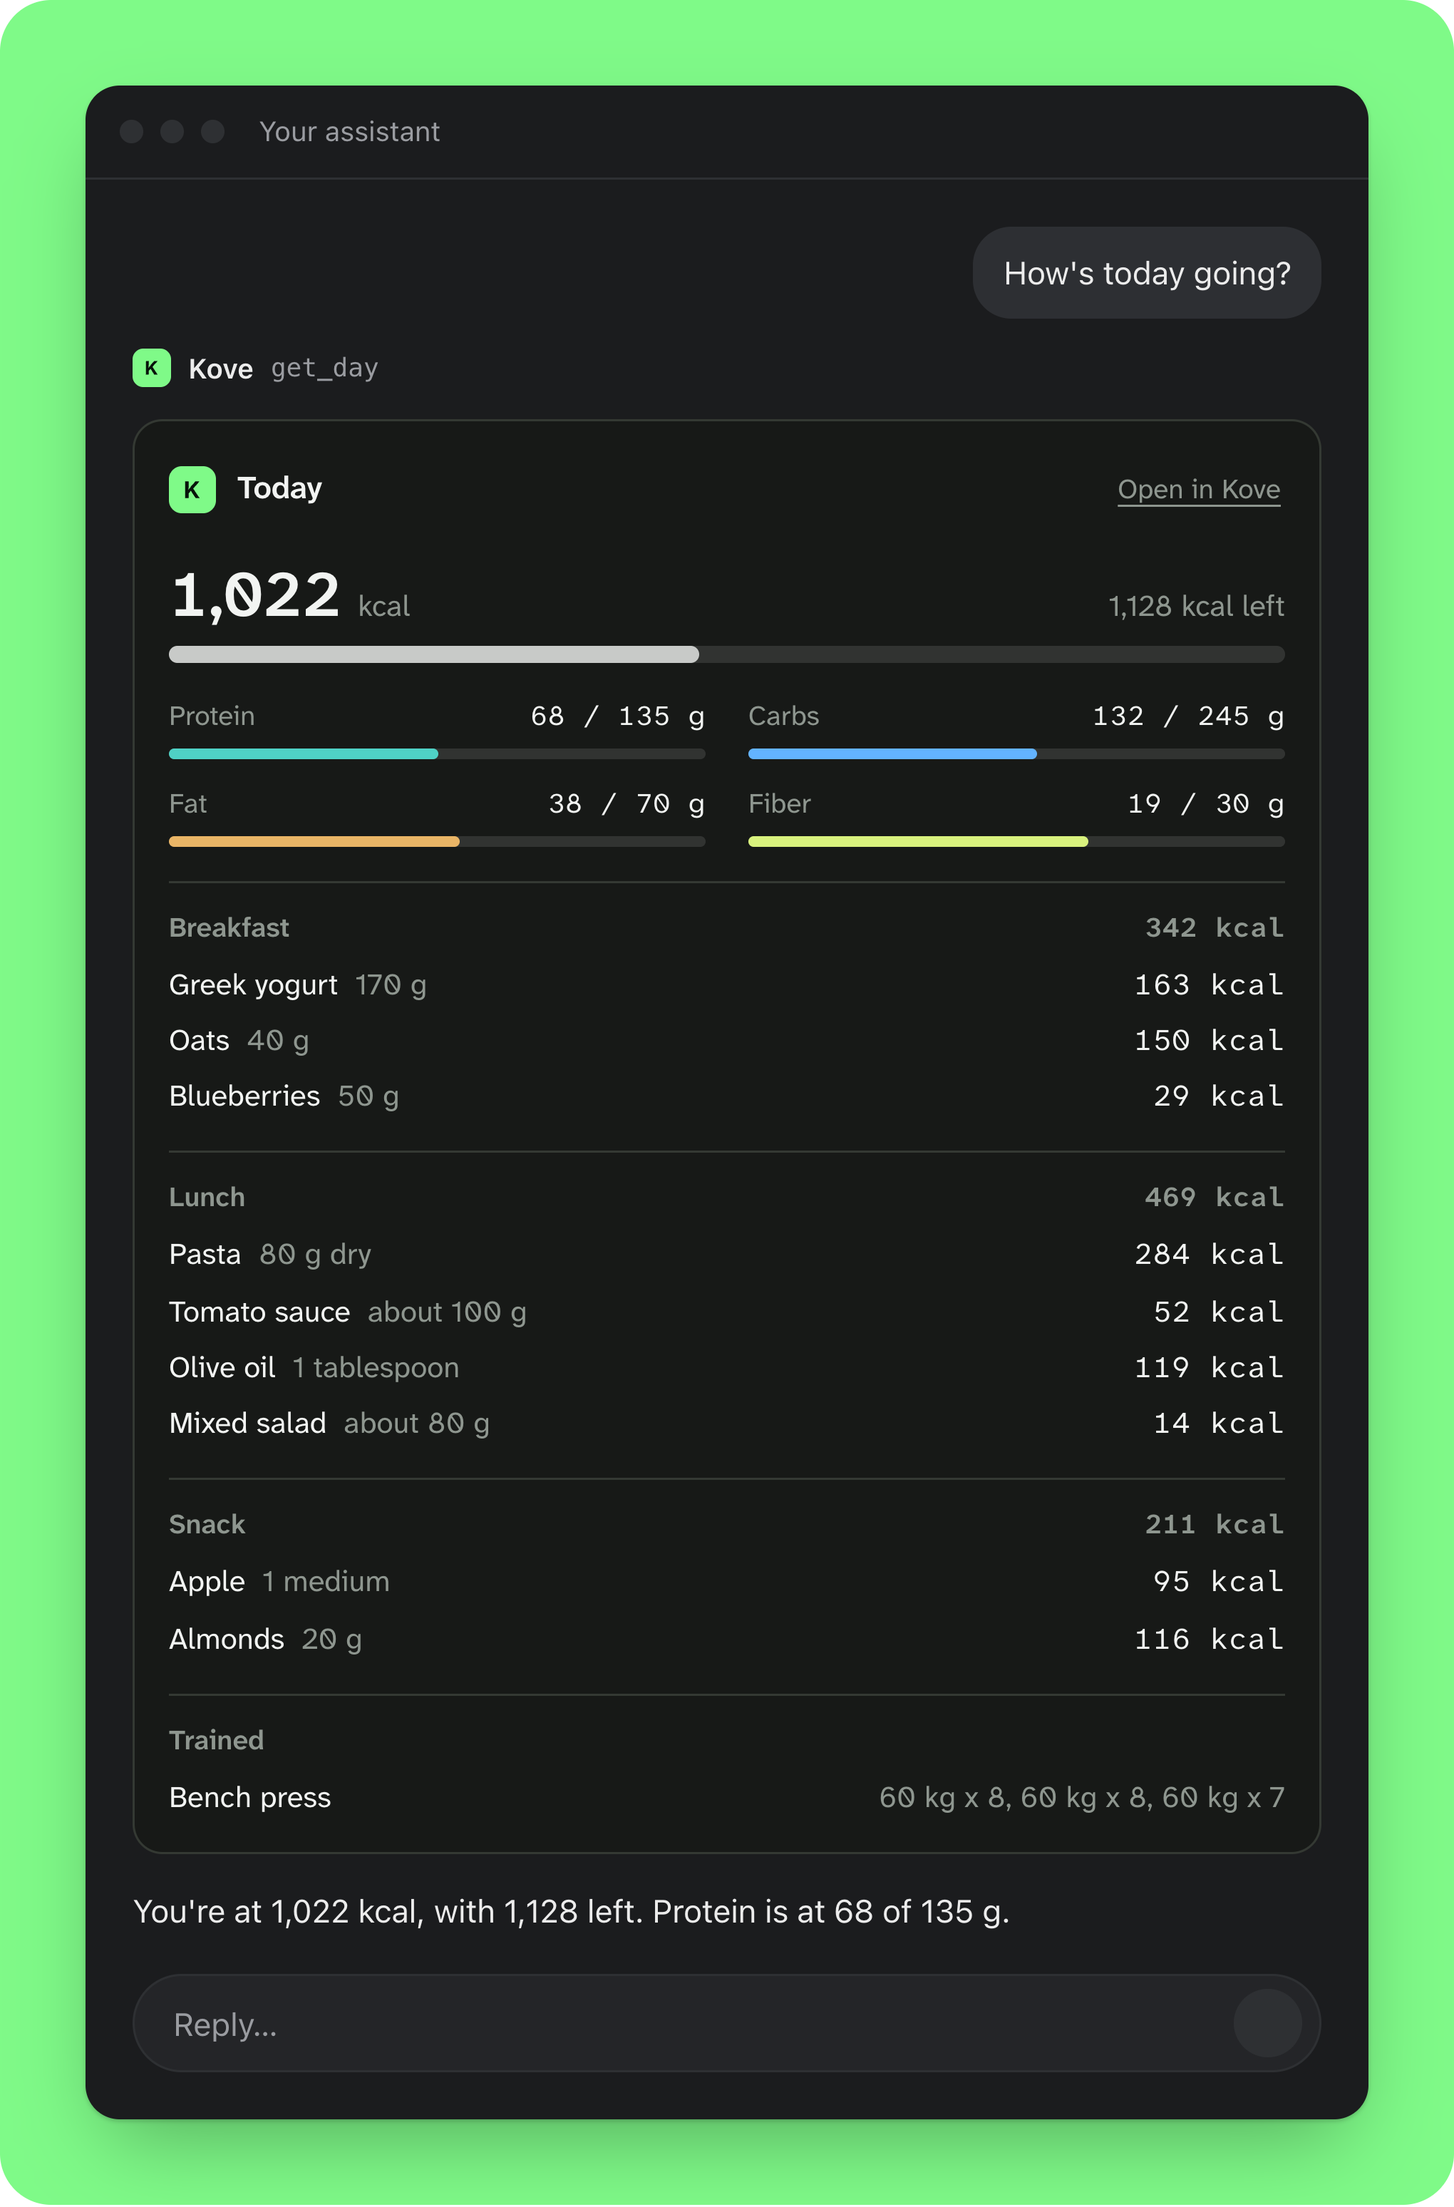
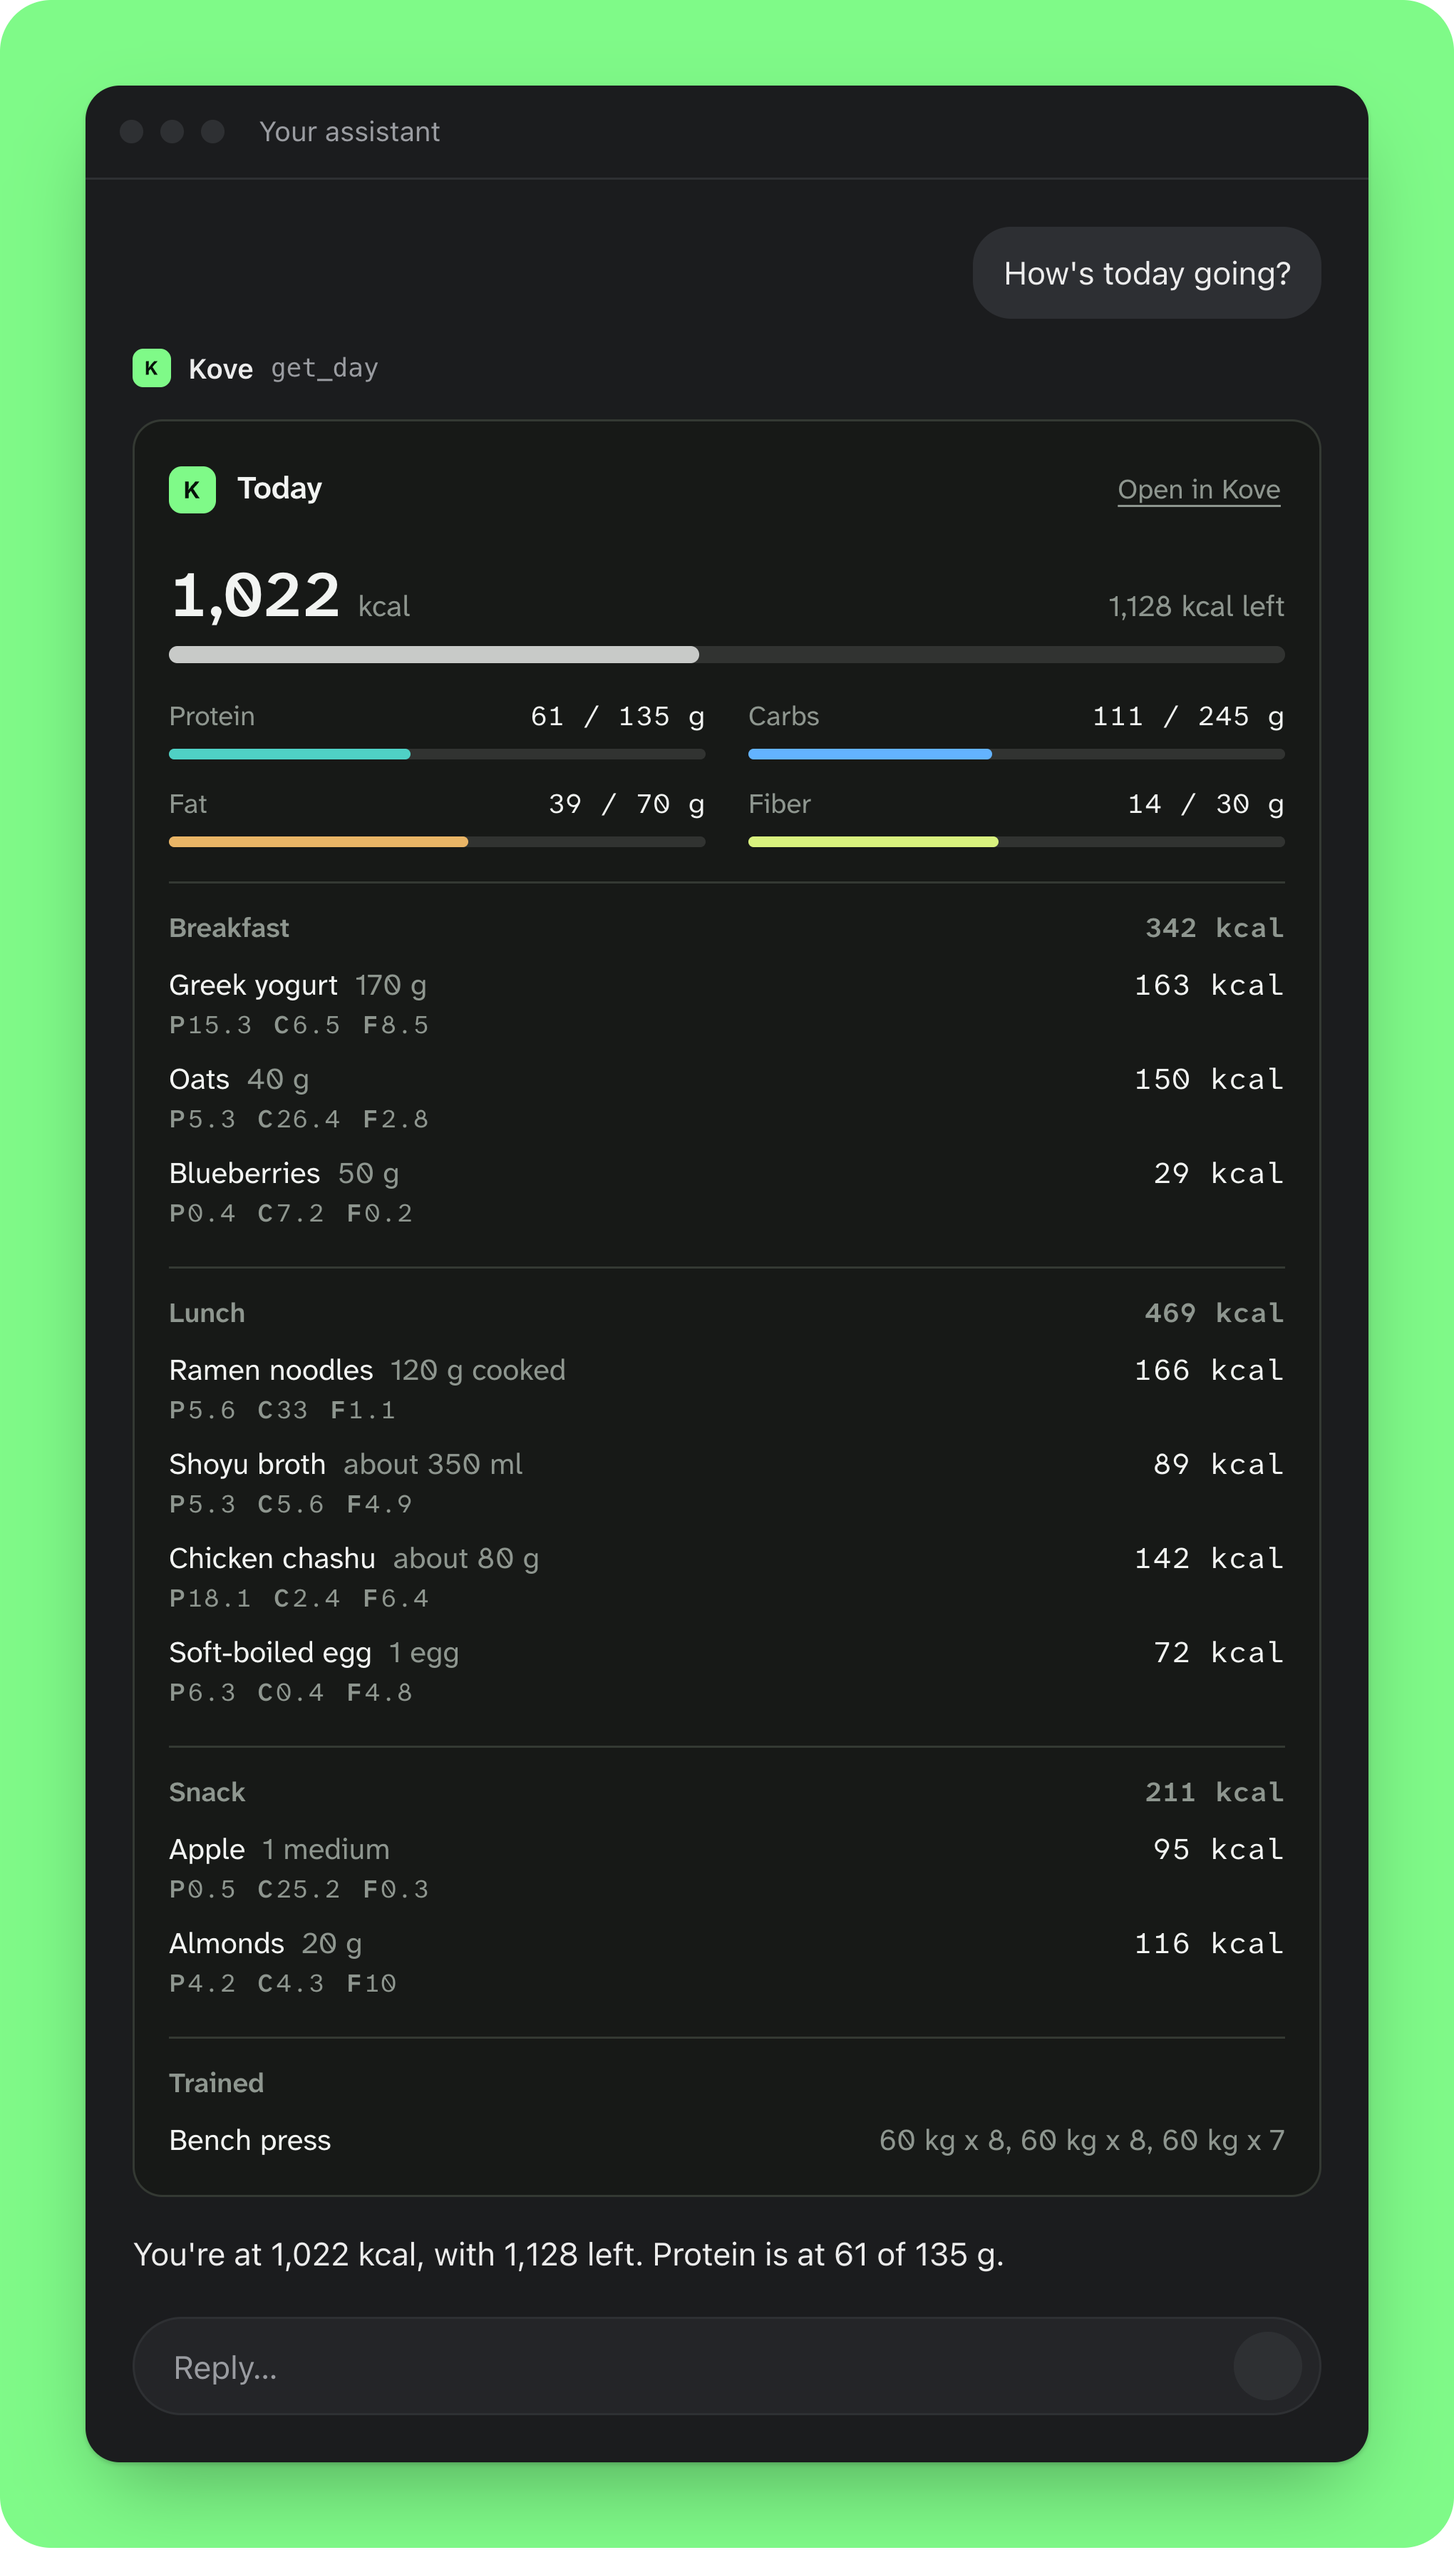
Release v1.0.3
See CHANGELOG.md.

diff --git a/README.md b/README.md
@@ -23,7 +23,7 @@
 <p align="center">
   <picture>
     <source media="(prefers-color-scheme: dark)" srcset="assets/log-meal-dark.png">
-    <img src="assets/log-meal-light.png" width="620" alt="A chat with an assistant. You ask it to log lunch: pasta al pomodoro and a side salad. Kove's card lists each food with its calories, the day's total of 881 kcal and the line added to the day's note, with an Undo button.">
+    <img src="assets/log-meal-light.png" width="620" alt="A chat with an assistant. You tell it lunch was a shoyu ramen with chicken chashu and a soft egg. Kove's card lists each food with its calories, protein, carbs and fat, the day's total of 811 kcal and the line added to the day's note, with an Undo button.">
   </picture>
 </p>
 
@@ -56,7 +56,7 @@ https://app.kovejournal.com/mcp
 
 The way you would tell a friend, in any language:
 
-- "Log lunch: pasta al pomodoro, about 80 g dry, and a side salad"
+- "Lunch was a shoyu ramen with chicken chashu and a soft egg"
 - "I weighed 78.4 this morning and drank another half litre of water"
 - "Bench press today, 3 sets of 8 at 60 kg"
 - "How's today going?"
@@ -70,7 +70,7 @@ Your assistant answers in your language, and your journal keeps your own field n
 <p align="center">
   <picture>
     <source media="(prefers-color-scheme: dark)" srcset="assets/your-day-dark.png">
-    <img src="assets/your-day-light.png" width="560" alt="Asked how today is going, the assistant shows Kove's day card: 1,022 kcal with 1,128 left, protein, carbs, fat and fiber against their targets, each meal with its foods, and the bench press sets.">
+    <img src="assets/your-day-light.png" width="560" alt="Asked how today is going, the assistant shows Kove's day card: 1,022 kcal with 1,128 left, protein, carbs, fat and fiber against their targets, each meal with its foods and their protein, carbs and fat, and the bench press sets.">
   </picture>
 </p>
 
@@ -127,8 +127,9 @@ the **+** menu. Once it's added, it works in the phone app too.
 
 ### ChatGPT
 
-Open **Plugins**, click **+**, then **Add custom MCP server**. Name it Kove, paste the address and choose
-**OAuth**. On some plans this appears only after you turn on Developer mode in Settings.
+On a Business, Enterprise or Edu workspace, open **Plugins** on chatgpt.com, click **+**, then **Add custom MCP
+server**. Name it Kove, paste the address as the Server URL, choose **OAuth**, then **I understand and want to
+continue** and **Create as a plugin**. On Pro a custom server can only read, and Plus, Go and the free plan can't add one.
 
 ### Grok
 
@@ -233,7 +234,7 @@ Kove is free for 30 days, then 39 € a year or 4.99 € a month. Connecting an 
 ## Help
 
 - Questions: hello@kovejournal.com, or the [FAQ](https://kovejournal.com/faq/).
-- A skill that leads your assistant wrong: [open an issue](../../issues).
+- A skill that leads your assistant wrong: [open an issue](https://github.com/kovejournal/kove-skills/issues).
 - Security: see [SECURITY.md](SECURITY.md).
 - Contributing: see [CONTRIBUTING.md](CONTRIBUTING.md).
 

diff --git a/CHANGELOG.md b/CHANGELOG.md
@@ -1,5 +1,15 @@
 # Changelog
 
+## 1.0.3
+
+- The README's pictures show each food's protein, carbs and fat under it, as Kove's cards now draw them, on the
+  same ramen lunch as kovejournal.com.
+- The ChatGPT steps state the plan rules: Business, Enterprise and Edu workspaces can add Kove with writing, Pro
+  can only read, and Plus, Go and the free plan cannot add one.
+- The skills and the MCP server are unchanged; the manifests change only their version.
+- The repository check now also reads the README's links and pictures and the MCP Registry entry
+  (`server.json`).
+
 ## 1.0.2
 
 - Sharper pictures in the README: Kove's cards were drawn at a third of their resolution. Nothing else changed.
